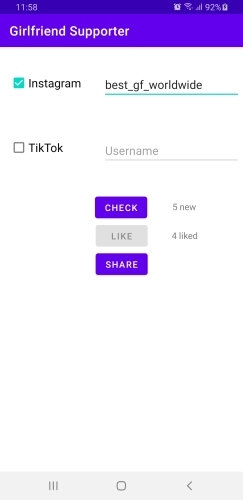
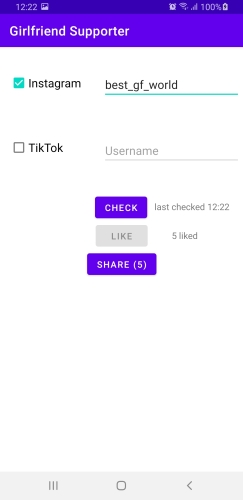
Numbers of new posts are now shown on the buttons

diff --git a/app/src/main/java/com/example/girlfriendsupporter/MainActivity.kt b/app/src/main/java/com/example/girlfriendsupporter/MainActivity.kt
@@ -2,12 +2,15 @@ package com.example.girlfriendsupporter
 
 import androidx.appcompat.app.AppCompatActivity
 import android.os.Bundle
-import android.view.View
 import android.widget.Button
 import android.widget.CheckBox
 import android.widget.EditText
 import android.widget.TextView
 import androidx.core.view.isVisible
+import java.time.Instant
+import java.time.LocalDateTime
+import java.time.format.DateTimeFormatter
+import java.time.format.FormatStyle
 
 class MainActivity : AppCompatActivity() {
     override fun onCreate(savedInstanceState: Bundle?) {
@@ -29,23 +32,28 @@ class MainActivity : AppCompatActivity() {
         val likeButton = findViewById<Button>(R.id.button_like)
         val shareButton = findViewById<Button>(R.id.button_share)
         val checkButton = findViewById<Button>(R.id.button_check)
+        val newPostsCount = 5
         checkButton.setOnClickListener {
-            val checkedCount = 5
-            likeButton.isEnabled = checkedCount > 0
-            shareButton.isEnabled = checkedCount > 0
+            likeButton.isEnabled = newPostsCount > 0
+            likeButton.text = if (newPostsCount > 0) getString(R.string.like_x, newPostsCount) else getString(R.string.like)
+            shareButton.isEnabled = newPostsCount > 0
+            shareButton.text = if (newPostsCount > 0) getString(R.string.share_x, newPostsCount) else getString(R.string.share)
 
-            showNumberOfAffectedPosts(R.id.textview_posts_found, R.string.x_new, checkedCount)
+            val textLastChecked = findViewById<TextView>(R.id.textview_last_checked)
+            val formatter = DateTimeFormatter.ofLocalizedTime(FormatStyle.SHORT)
+            val currentTime = LocalDateTime.now().format(formatter)
+            textLastChecked.text = getString(R.string.last_checked, currentTime)
         }
 
         likeButton.setOnClickListener {
-            val likedCount = 4
-            showNumberOfAffectedPosts(R.id.textview_posts_liked, R.string.x_liked, likedCount)
+            showNumberOfAffectedPosts(R.id.textview_posts_liked, R.string.x_liked, newPostsCount)
+            likeButton.text = getString(R.string.like)
             likeButton.isEnabled = false
         }
 
         shareButton.setOnClickListener {
-            val sharedCount = 4
-            showNumberOfAffectedPosts(R.id.textview_posts_shared, R.string.x_shared, sharedCount)
+            showNumberOfAffectedPosts(R.id.textview_posts_shared, R.string.x_shared, newPostsCount)
+            shareButton.text = getString(R.string.share)
             shareButton.isEnabled = false
         }
     }
